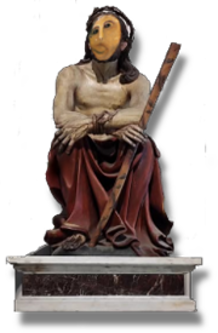
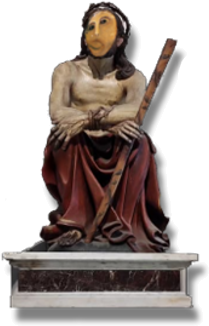
reference image popup change

diff --git a/index.html b/index.html
@@ -7,7 +7,7 @@
   <link rel="preconnect" href="https://fonts.googleapis.com">
   <link rel="preconnect" href="https://fonts.gstatic.com" crossorigin>
   <link href="https://fonts.googleapis.com/css2?family=Special+Elite&display=swap" rel="stylesheet">
-  <style>
+ <style>
     /* Fixed frame */
     #frame {
       width: 1500px;
@@ -97,7 +97,6 @@
   </style>
 </head>
 <body>
-  
   <div id="frame">
     <div id="collage"></div>
   </div>
@@ -220,11 +219,16 @@
         
         // Add the reference image (or fallback to the clicked image)
         const imgContainer = document.createElement("div");
+        imgContainer.style.width = "50%";
+        imgContainer.style.height = "50%";
         imgContainer.style.marginBottom = "20px";
         const refImg = document.createElement("img");
         refImg.src = popupImage ? `images/${popupImage}` : clickedImg.src;
-        refImg.style.maxWidth = "150px";
-        refImg.style.maxHeight = "150px";
+        // Set image to fill 100% of its container
+        refImg.style.width = "50%";
+        refImg.style.height = "50%";
+        // Optional: ensure the image maintains its aspect ratio
+        refImg.style.objectFit = "contain";
         imgContainer.appendChild(refImg);
         container.appendChild(imgContainer);
         
